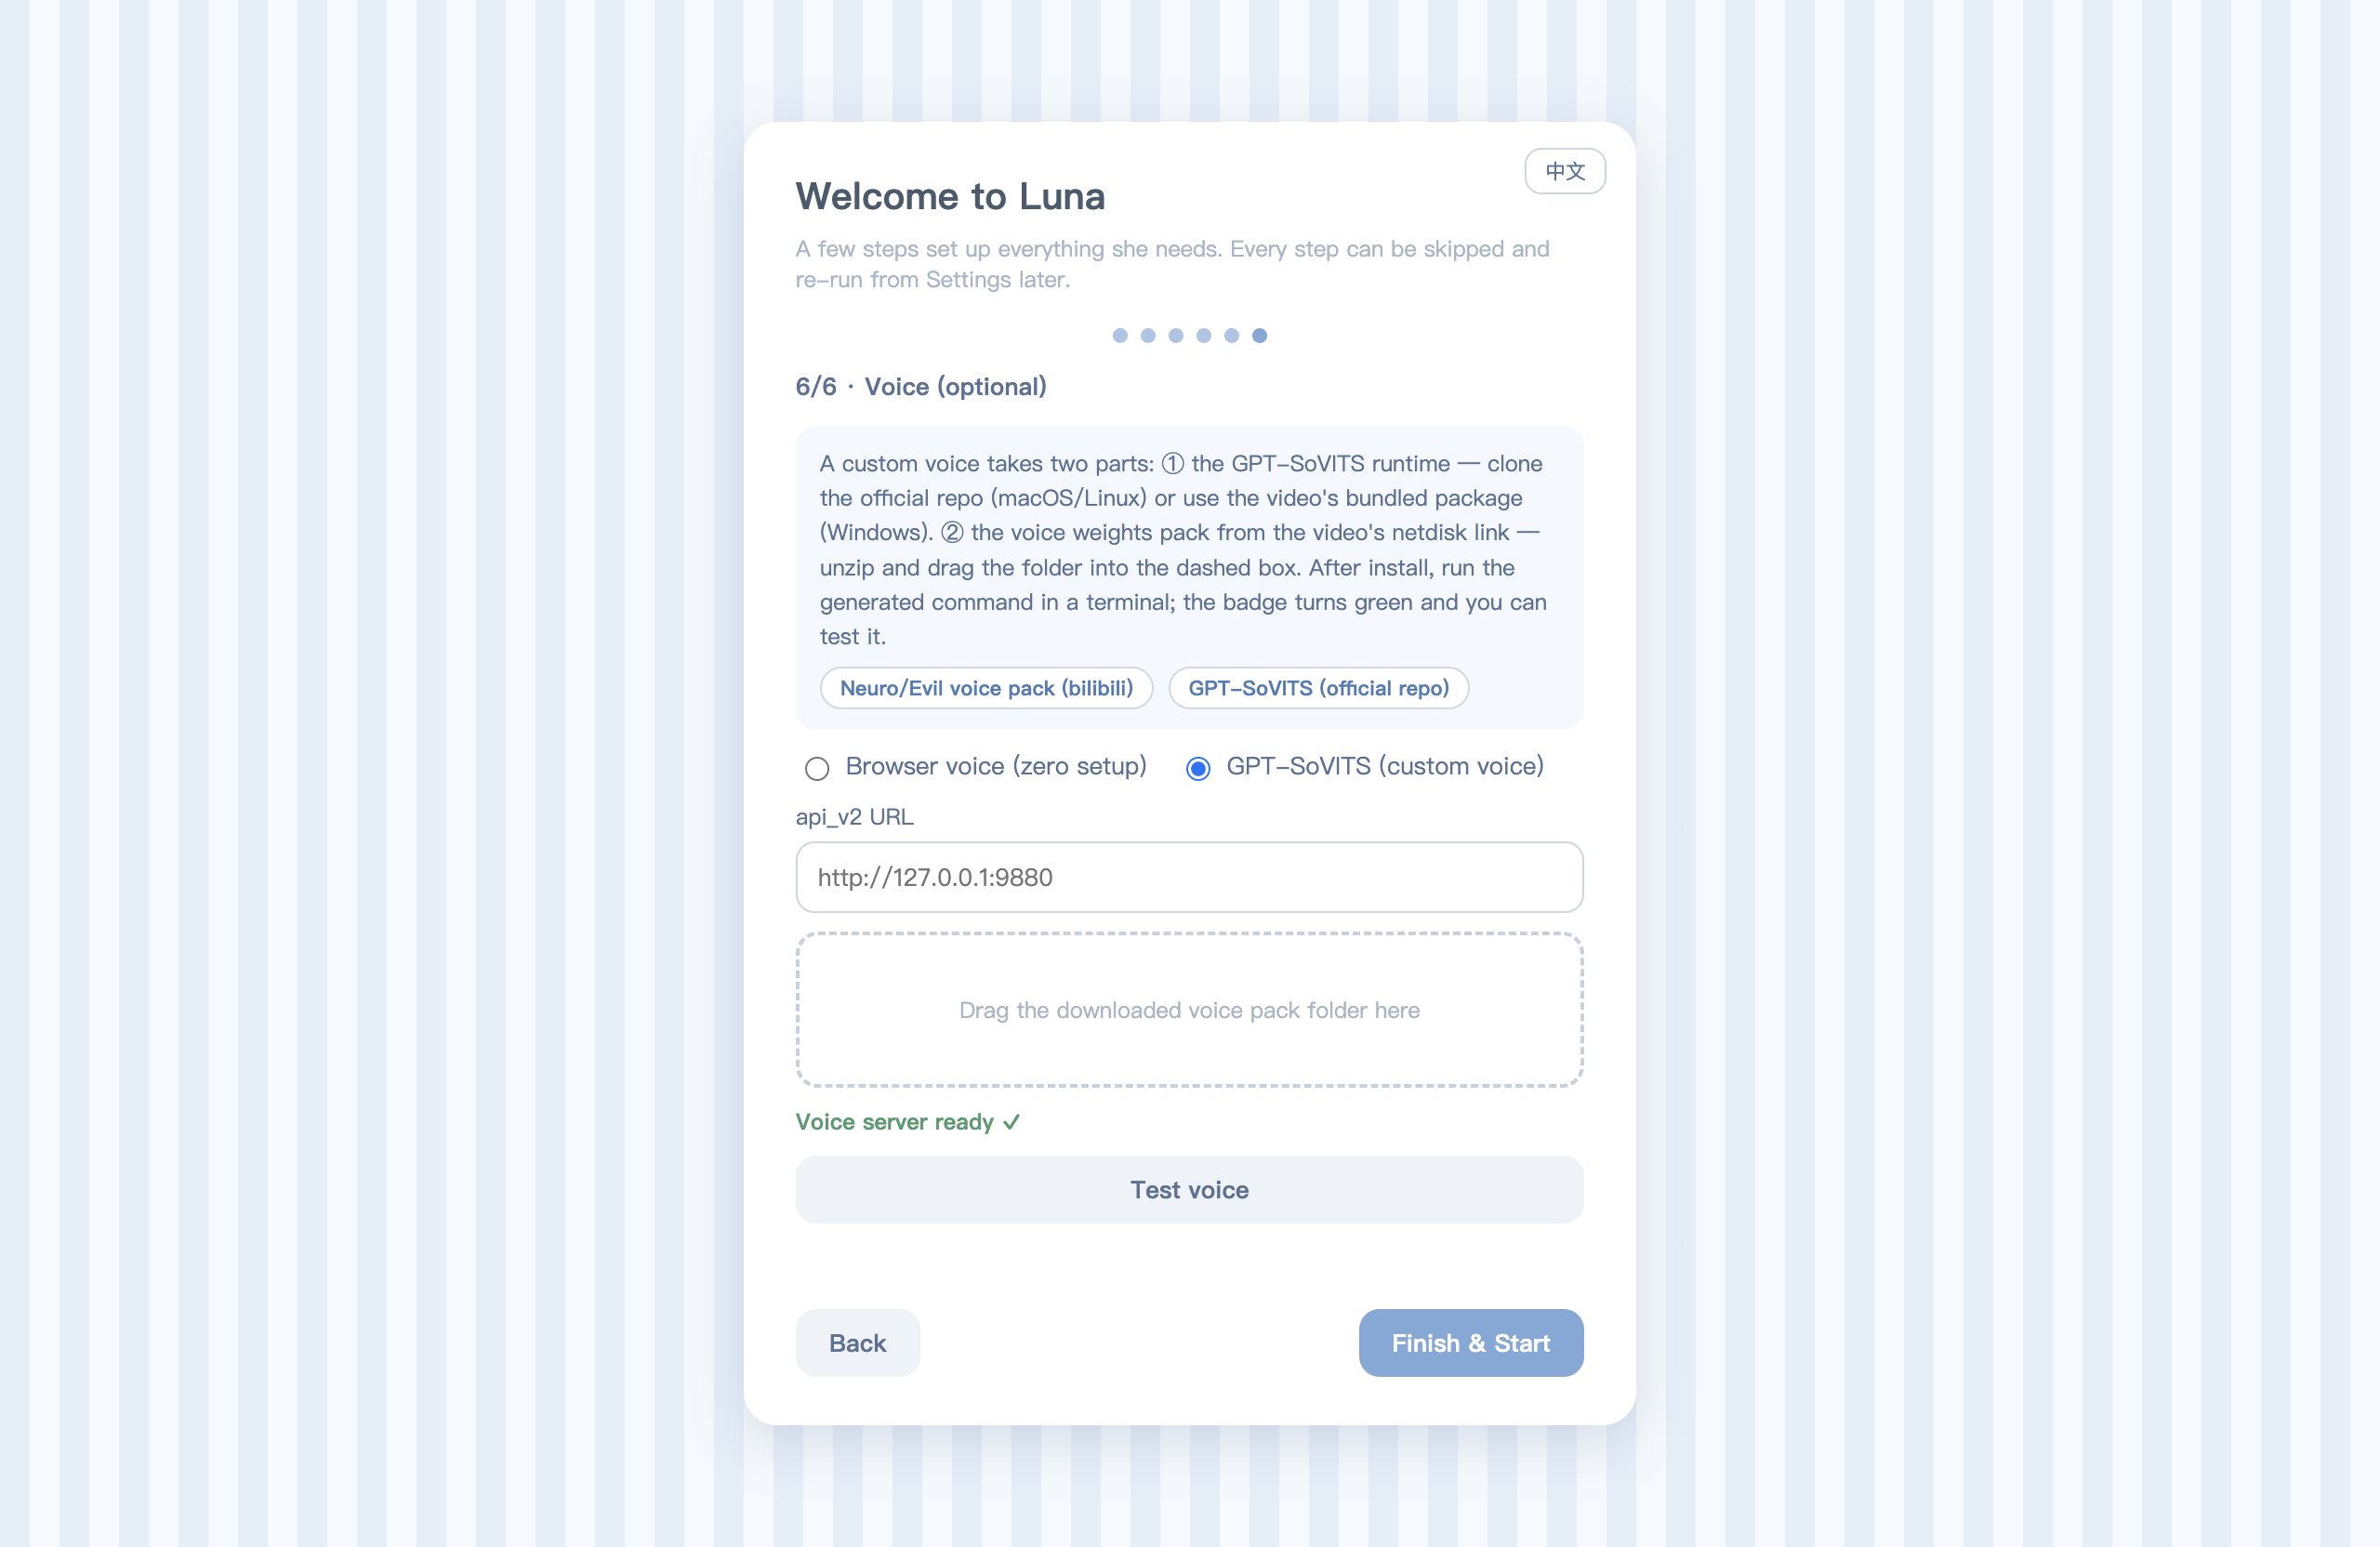
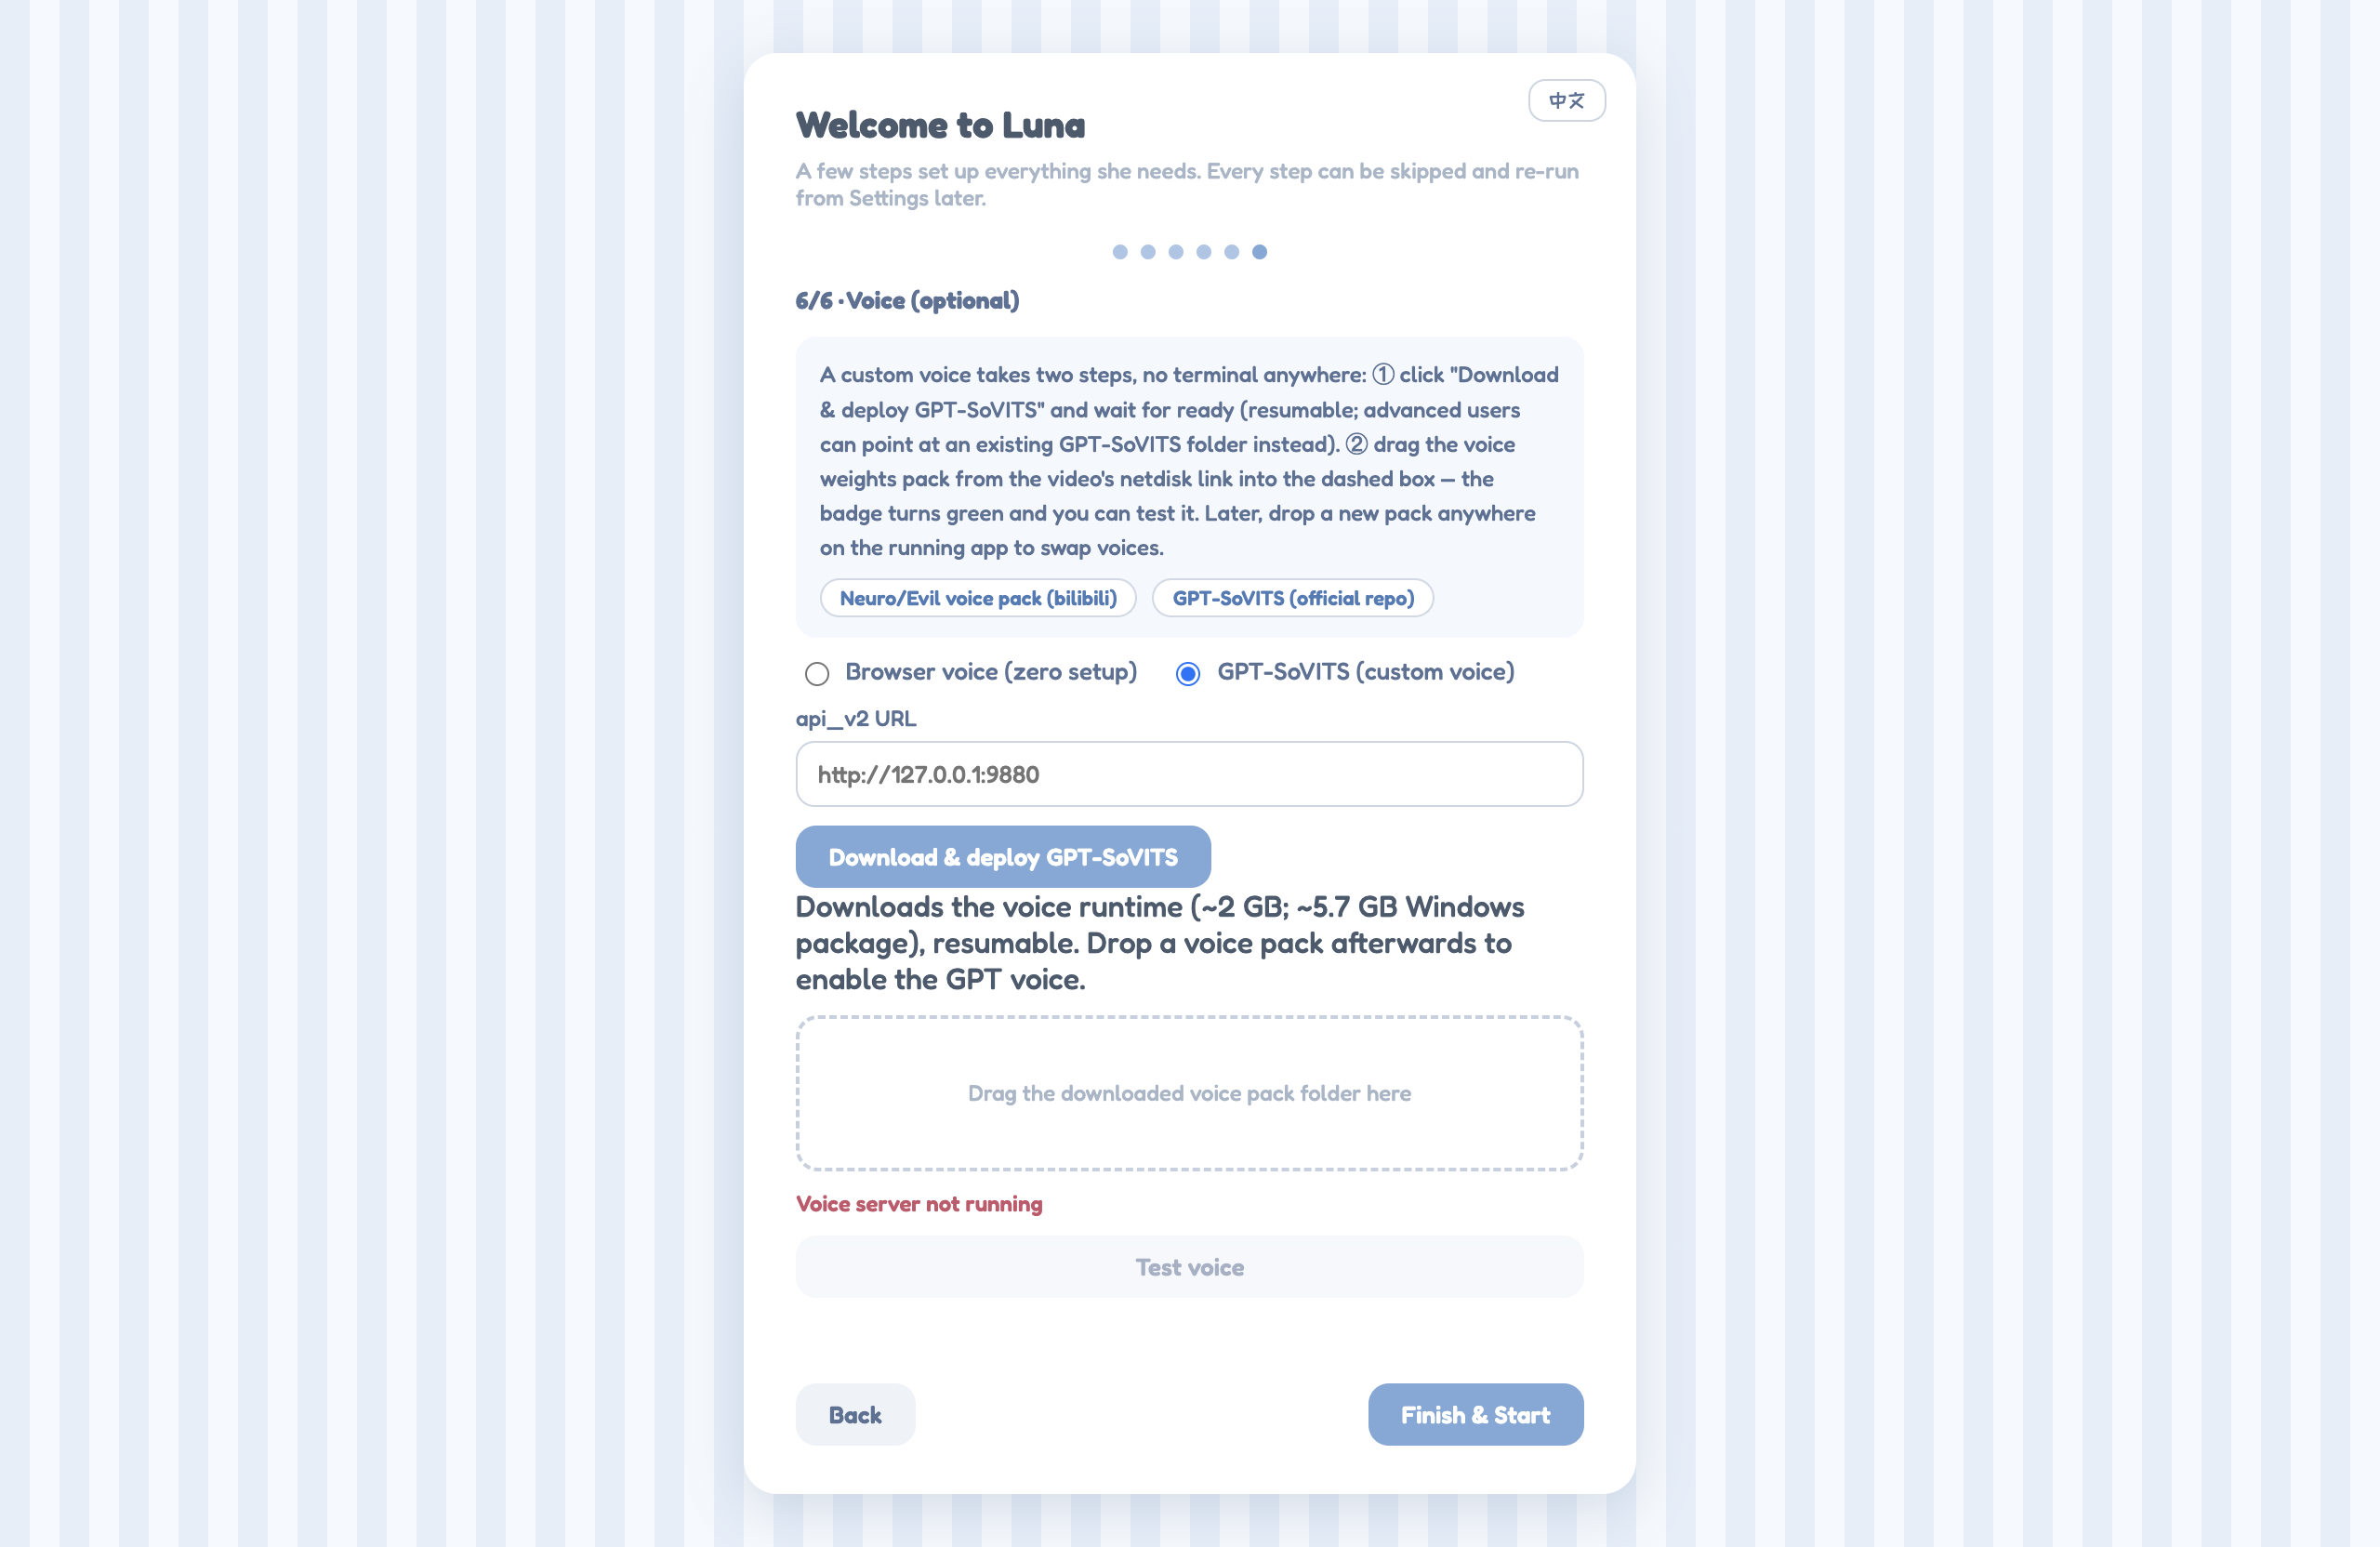
The front page catches up with the voice it describes (v0.37.6)
Both READMEs still promised a launch command to copy into a terminal — the
exact step this release removes — and the wizard screenshot still showed it.
The voice line, the caption and the screenshot now show what actually happens:
one click deploys the runtime, you drag a pack in, and Luna runs the voice
server herself.

Detail in docs/history/DEVELOPMENT.md.

diff --git a/README.md b/README.md
@@ -39,8 +39,10 @@ code-agent capability — embodied as a Live2D avatar with lip-synced custom voi
   distills herself.
 - 🎭 **Embodied** — a Live2D avatar with emotion-driven expressions, gaze follow, idle animation
   profiles, phoneme lip-sync, and a transparent always-on-top **desktop pet mode**.
-- 🗣 **Your voice** — zero-setup browser TTS out of the box, or bring a GPT-SoVITS voice: drag the
-  weights folder into the wizard and it writes the config and hands you the exact launch command.
+- 🗣 **Your voice** — zero-setup browser TTS out of the box, or a GPT-SoVITS custom voice with no
+  terminal anywhere: the wizard downloads & deploys the runtime in one click, you drag a voice pack
+  in, and Luna starts + supervises the voice server herself. Drop a new pack onto the running app
+  to swap voices.
 - 🧙 **Guided onboarding** — a six-step bilingual (中文/English) wizard with *live* key validation
   against the real vendors, drag-and-drop avatar/voice installs, and escape hatches everywhere
   (status-bar button, native `⌘,` menu, failure dialogs) so a bad config can never strand you.
@@ -74,7 +76,7 @@ bun run dev            # server + web at http://localhost:5173
 <div align="center">
 <table>
   <tr>
-    <td align="center"><img src="docs/assets/wizard-voice.png" width="420" alt="Voice step: drag a GPT-SoVITS pack in" /><br/><sub>Drag a voice pack in — config + launch command generated, live health badge</sub></td>
+    <td align="center"><img src="docs/assets/wizard-voice.png" width="420" alt="Voice step: drag a GPT-SoVITS pack in" /><br/><sub>Voice step — one-click GPT-SoVITS deploy, drag a voice pack in, live health badge</sub></td>
     <td align="center"><img src="docs/assets/app-first-run.png" width="420" alt="First run: settings panel over the bring-your-own-avatar empty state" /><br/><sub>First run — she ships with no body; you bring the avatar and the voice</sub></td>
   </tr>
 </table>

diff --git a/README.zh-CN.md b/README.zh-CN.md
@@ -36,8 +36,8 @@
   带能力闸门的代码代理(仓库地图、符号检索、编辑),以及她自己蒸馏的技能架。
 - 🎭 **有身体** —— Live2D 立绘:情绪驱动表情、视线跟随、待机动画方案、音素级口型同步,以及
   透明置顶的**桌宠模式**。
-- 🗣 **你的声音** —— 开箱即用浏览器语音;想要定制音色就带一个 GPT-SoVITS 权重包:把文件夹拖进
-  向导,配置自动写好,启动命令直接生成。
+- 🗣 **你的声音** —— 开箱即用浏览器语音;要定制音色也全程不用开终端:向导一键下载并部署
+  GPT-SoVITS,拖入音色权重包,语音服务由 Luna 自己启动并看护;运行中把新音色包拖到界面上即可换声。
 - 🧙 **引导式上手** —— 六步中英双语向导:每把 key 都对真实服务商**在线验证**、立绘与音色包
   拖入即装,并且处处有退路(状态栏按钮、原生 `⌘,` 菜单、失败弹窗)——配坏了永远一键回到向导。
 - 🔒 **本地优先** —— 记忆是本地 SQLite,密钥只存本机配置文件,服务默认只绑回环地址。
@@ -69,7 +69,7 @@ bun run dev            # server + web,http://localhost:5173
 <div align="center">
 <table>
   <tr>
-    <td align="center"><img src="docs/assets/wizard-voice.png" width="420" alt="语音步骤:拖入 GPT-SoVITS 音色包" /><br/><sub>音色包拖进来——配置与启动命令自动生成,徽章实时报告语音服务状态</sub></td>
+    <td align="center"><img src="docs/assets/wizard-voice.png" width="420" alt="语音步骤:拖入 GPT-SoVITS 音色包" /><br/><sub>语音步骤——一键部署 GPT-SoVITS,拖入音色包,徽章实时报告语音服务状态</sub></td>
     <td align="center"><img src="docs/assets/app-first-run.png" width="420" alt="首次运行:设置面板与自带立绘空状态" /><br/><sub>首启界面——她不自带身体;立绘和声音由你来定</sub></td>
   </tr>
 </table>